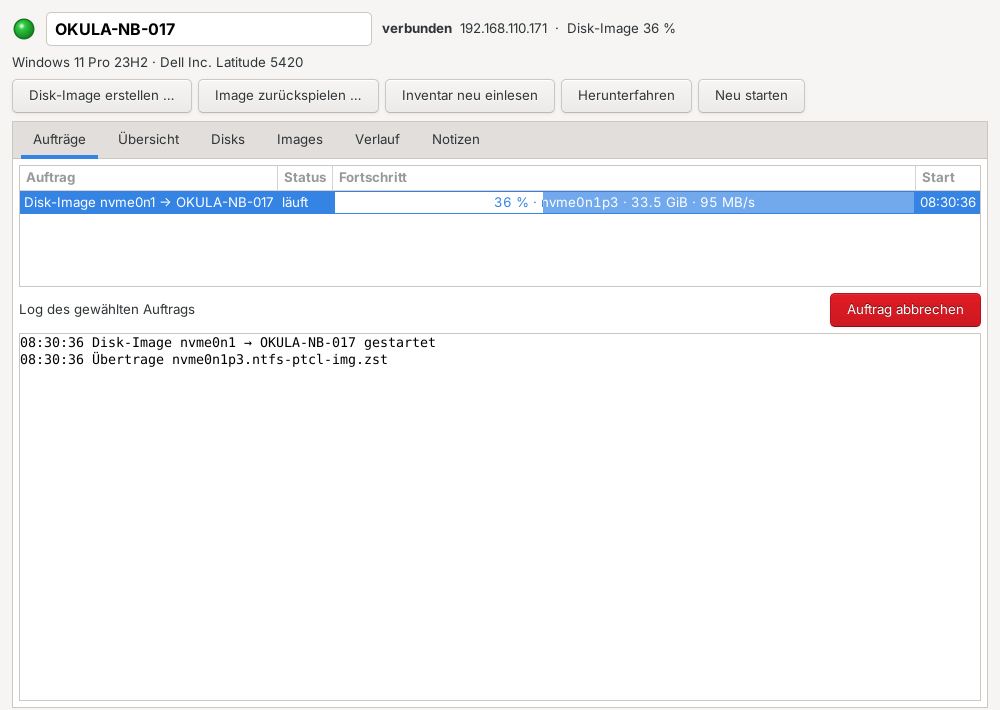
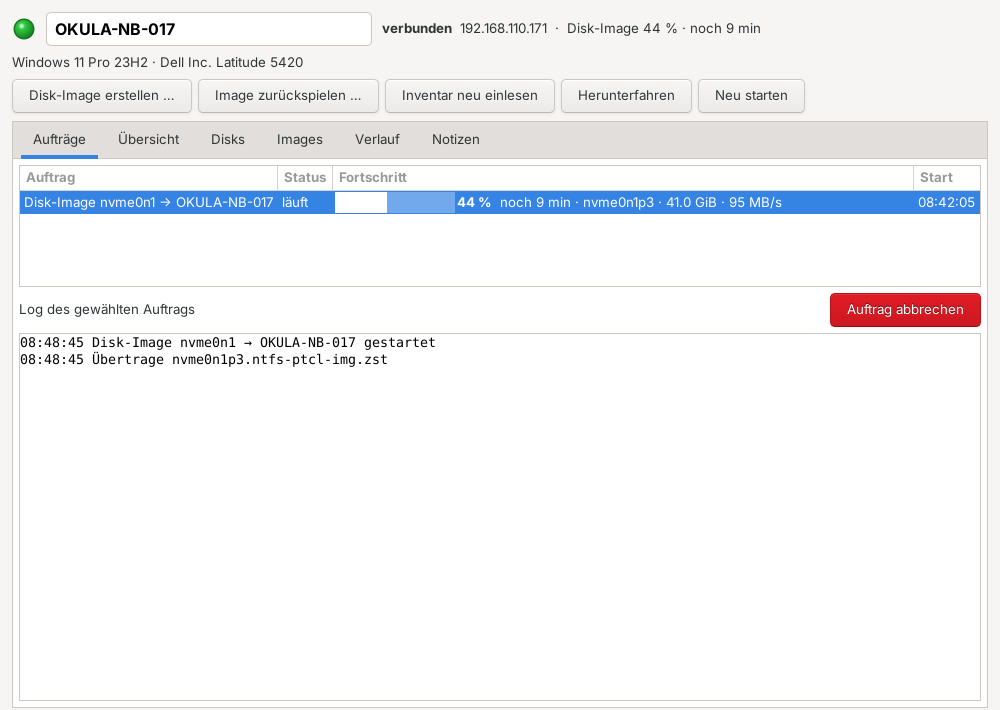
Geräteliste: Fortschrittsbalken mit Prozent und Restzeit
- Status-Spalte zeigt bei laufenden Aufträgen einen Balken, Prozent fett
  daneben, Auftrag (Disk-Image / Image prüfen / Zurückspielen) und Restzeit
- mehrere Aufträge: Mittelwert und längste Restzeit
- Gerätefenster: gleiche Darstellung in der Auftragsliste und im Kopf

Claude-Session: https://claude.ai/code/session_01GNW2pHw1GKubHQgAtEzXA5

Changed region(s): [[0.372, 0.2479, 0.992, 0.3099], [0.651, 0.031, 0.775, 0.062], [0.031, 0.4648, 0.093, 0.5268]]

diff --git a/okula_recovery/ui.py b/okula_recovery/ui.py
@@ -775,8 +775,9 @@ class MainWindow(Gtk.ApplicationWindow):
     # ---------- linke Seite: Geräte ----------
 
     # Spalten des Gerätebaums: LED bzw. Ordner-Icon, Name, Status, Betriebssystem, zuletzt verbunden, IP,
-    # Geräte-ID, Art (unsorted/folder/device), Ordner-rel
-    D_ICON, D_NAME, D_STATUS, D_OS, D_SEEN, D_IP, D_ID, D_KIND, D_REL = range(9)
+    # Geräte-ID, Art (unsorted/folder/device), Ordner-rel, Fortschritt 0–100, Balken-Text (leer), Balken zeigen
+    D_ICON, D_NAME, D_STATUS, D_OS, D_SEEN, D_IP, D_ID, D_KIND, D_REL, D_PROG, D_PCT, D_BAR = range(12)
+    NO_PROGRESS = [0, "", False]
     DEV_DND_TARGET = "okula/device-row"
 
     def _build_device_pane(self) -> Gtk.Widget:
@@ -800,7 +801,7 @@ class MainWindow(Gtk.ApplicationWindow):
             self.dev_buttons[key] = b
         box.pack_start(head, False, False, 0)
 
-        self.device_store = Gtk.TreeStore(str, str, str, str, str, str, str, str, str)
+        self.device_store = Gtk.TreeStore(str, str, str, str, str, str, str, str, str, int, str, bool)
         view = Gtk.TreeView(model=self.device_store)
         col = Gtk.TreeViewColumn("Gerät")
         icon = Gtk.CellRendererPixbuf()
@@ -813,7 +814,20 @@ class MainWindow(Gtk.ApplicationWindow):
         col.set_resizable(True)
         col.set_min_width(200)
         view.append_column(col)
-        for title, idx, chars in (("Status", self.D_STATUS, 16), ("Betriebssystem", self.D_OS, 18),
+        # Status: solange etwas läuft, Fortschrittsbalken mit Prozent, daneben Auftrag und Restzeit
+        col = Gtk.TreeViewColumn("Status")
+        bar = Gtk.CellRendererProgress()
+        bar.set_fixed_size(90, -1)
+        col.pack_start(bar, False)
+        for attr, idx in (("value", self.D_PROG), ("text", self.D_PCT), ("visible", self.D_BAR)):
+            col.add_attribute(bar, attr, idx)
+        text = Gtk.CellRendererText(ellipsize=Pango.EllipsizeMode.END)
+        col.pack_start(text, True)
+        col.add_attribute(text, "markup", self.D_STATUS)
+        col.set_min_width(340)
+        col.set_resizable(True)
+        view.append_column(col)
+        for title, idx, chars in (("Betriebssystem", self.D_OS, 18),
                                   ("Zuletzt verbunden", self.D_SEEN, 16), ("IP", self.D_IP, 14)):
             cell = Gtk.CellRendererText(ellipsize=Pango.EllipsizeMode.END, width_chars=chars)
             c = Gtk.TreeViewColumn(title, cell, text=idx)
@@ -871,24 +885,35 @@ class MainWindow(Gtk.ApplicationWindow):
         return self.agents.get(aid) if aid else None
 
     def device_status(self, dev: devices.Device) -> str:
-        """Was mit dem Gerät gerade passiert – Aufträge des Tools zuerst, dann die Meldung des Agents."""
-        summary = self.jobs.summary(dev.id)
-        agent = self.online_agent(dev)
-        if agent is None:
-            return summary or "nicht verbunden"
-        if summary:
-            return summary
-        if agent.agent_id in self.inv_pending:
-            return "Inventar wird gelesen …"
-        if not agent.control_port:
-            return "Agent-Stick veraltet"
-        return agent.status
+        what, fraction, eta = self.device_progress(dev)
+        pct = f" {fraction * 100:.0f} %" if fraction is not None else ""
+        return " · ".join(p for p in (what + pct, eta) if p)
 
-    def _device_values(self, dev: devices.Device) -> list[str]:
+    def device_progress(self, dev: devices.Device) -> tuple[str, float | None, str]:
+        """(was läuft, Fortschritt 0..1, Restzeit) – Aufträge des Tools zuerst, dann die Meldung des Agents."""
+        what, fraction, eta = self.jobs.parts(dev.id)
         agent = self.online_agent(dev)
-        return ["okula-led-on" if agent else "okula-led-off", dev.name, self.device_status(dev),
+        if what or agent is None:
+            return what or "nicht verbunden", fraction, eta
+        if agent.agent_id in self.inv_pending:
+            return "Inventar wird gelesen …", None, ""
+        if not agent.control_port:
+            return "Agent-Stick veraltet", None, ""
+        if agent.job:  # z. B. Image-Prüfung, die das Tool dem Agent meldet
+            return agent.job, agent.progress, ""
+        return agent.status, None, ""
+
+    def _device_values(self, dev: devices.Device) -> list:
+        agent = self.online_agent(dev)
+        what, fraction, eta = self.device_progress(dev)
+        bar = fraction is not None
+        status = GLib.markup_escape_text(" · ".join(p for p in (what, eta) if p))
+        if bar:
+            status = f"<b>{fraction * 100:.0f} %</b>  {status}"
+        return ["okula-led-on" if agent else "okula-led-off", dev.name, status,
                 dev.os_name or "–", "jetzt" if agent else devices.short_time(dev.last_seen) or "–",
-                agent.ip if agent else dev.last_ip, dev.id, "device", dev.folder]
+                agent.ip if agent else dev.last_ip, dev.id, "device", dev.folder,
+                int(fraction * 100) if bar else 0, "", bar]
 
     def refresh_devices(self) -> None:
         """Baum neu aufbauen (neue Geräte, Ordner, Umbenennen) – Auf- und Zuklappen bleibt erhalten."""
@@ -903,7 +928,7 @@ class MainWindow(Gtk.ApplicationWindow):
         store.clear()
         new = sorted(self.store.in_folder(""), key=lambda d: d.first_seen, reverse=True)  # neueste zuerst
         unsorted = store.append(None, ["folder-download-symbolic", f"Neu / nicht einsortiert ({len(new)})",
-                                       "", "", "", "", "", "unsorted", ""])
+                                       "", "", "", "", "", "unsorted", ""] + self.NO_PROGRESS)
         for dev in new:
             store.append(unsorted, self._device_values(dev))
 
@@ -912,7 +937,7 @@ class MainWindow(Gtk.ApplicationWindow):
 
         def add(parent, rel: str) -> None:
             it = store.append(parent, ["folder-symbolic", f"{rel.rsplit('/', 1)[-1]} ({count(rel)})", "", "", "",
-                                       "", "", "folder", rel])
+                                       "", "", "folder", rel] + self.NO_PROGRESS)
             for sub in self.store.folders:
                 if sub.rsplit("/", 1)[0] == rel and "/" in sub:
                     add(it, sub)

diff --git a/okula_recovery/jobs.py b/okula_recovery/jobs.py
@@ -38,6 +38,32 @@ class Job:
     def running(self) -> bool:
         return self.state == RUNNING
 
+    @property
+    def label(self) -> str:
+        if self.detail.startswith("Prüfe Image"):
+            return "Image prüfen"
+        return "Disk-Image" if self.kind == "image" else "Zurückspielen"
+
+    @property
+    def remaining(self) -> float | None:
+        """Geschätzte Restzeit in Sekunden (aus bisheriger Dauer und Fortschritt), None = noch unklar."""
+        if not self.running or self.fraction < 0.02:
+            return None
+        elapsed = time.time() - self.started
+        if elapsed < 10:
+            return None
+        return elapsed * (1 - self.fraction) / self.fraction
+
+
+def eta_text(seconds: float | None) -> str:
+    if seconds is None:
+        return ""
+    if seconds < 60:
+        return "noch < 1 min"
+    if seconds < 3600:
+        return f"noch {seconds / 60:.0f} min"
+    return f"noch {int(seconds // 3600)} h {int(seconds % 3600 // 60):02d} min"
+
 
 class JobManager:
     def __init__(self, on_change: Callable[[Job], None] = lambda job: None):
@@ -55,14 +81,24 @@ class JobManager:
             return [j for j in self.jobs if j.running]
 
     def summary(self, device_id: str) -> str:
-        """Kurzstatus für die Geräteliste, z. B. „Disk-Image 45 %“ oder „2 Aufträge“."""
+        """Kurzstatus für die Geräteliste, z. B. „Disk-Image 45 % · noch 6 min“."""
+        return self.status(device_id)[0]
+
+    def status(self, device_id: str) -> tuple[str, float | None]:
+        """(Text, Fortschritt 0..1) der laufenden Aufträge eines Geräts."""
+        what, fraction, eta = self.parts(device_id)
+        if fraction is None:
+            return "", None
+        return " · ".join(p for p in (f"{what} {fraction * 100:.0f} %", eta) if p), fraction
+
+    def parts(self, device_id: str) -> tuple[str, float | None, str]:
+        """(was läuft, Fortschritt, Restzeit); mehrere Aufträge: Mittelwert und längste Restzeit."""
         active = [j for j in self.running() if j.device_id == device_id]
         if not active:
-            return ""
-        if len(active) > 1:
-            return f"{len(active)} Aufträge"
-        j = active[0]
-        return f"{'Disk-Image' if j.kind == 'image' else 'Zurückspielen'} {j.fraction * 100:.0f} %"
+            return "", None, ""
+        rests = [j.remaining for j in active]
+        return (active[0].label if len(active) == 1 else f"{len(active)} Aufträge",
+                sum(j.fraction for j in active) / len(active), eta_text(None if None in rests else max(rests)))
 
     def start(self, device_id: str, kind: str, disk: str, title: str,
               work: Callable[["Job", "JobManager"], str]) -> Job:

diff --git a/okula_recovery/device_window.py b/okula_recovery/device_window.py
@@ -111,8 +111,15 @@ class DeviceWindow(Gtk.Window):
             col = Gtk.TreeViewColumn(title, Gtk.CellRendererText(), text=i)
             col.set_resizable(True)
             view.append_column(col)
-        prog = Gtk.CellRendererProgress()
-        col = Gtk.TreeViewColumn("Fortschritt", prog, value=3, text=4)
+        # Balken ohne Text (über der Farbgrenze schlecht lesbar), Prozent fett daneben
+        col = Gtk.TreeViewColumn("Fortschritt")
+        prog = Gtk.CellRendererProgress(text="")
+        prog.set_fixed_size(120, -1)
+        col.pack_start(prog, False)
+        col.add_attribute(prog, "value", 3)
+        info = Gtk.CellRendererText(ellipsize=Pango.EllipsizeMode.END)
+        col.pack_start(info, True)
+        col.add_attribute(info, "markup", 4)
         col.set_expand(True)
         view.append_column(col)
         view.append_column(Gtk.TreeViewColumn("Start", Gtk.CellRendererText(), text=5))
@@ -270,8 +277,9 @@ class DeviceWindow(Gtk.Window):
         all_jobs = self.main.jobs.for_device(self.dev.id)
         rows = {row[0]: row for row in self.job_store}
         for job in all_jobs:
-            pct = f"{job.fraction * 100:.0f} %"
-            values = [job.id, job.title, job.state, int(job.fraction * 100), f"{pct} · {job.detail}" if job.detail else pct,
+            rest = GLib.markup_escape_text(" · ".join(p for p in (jobs.eta_text(job.remaining), job.detail) if p))
+            text = f"<b>{job.fraction * 100:.0f} %</b>  {rest}"
+            values = [job.id, job.title, job.state, int(job.fraction * 100), text,
                       datetime.fromtimestamp(job.started).strftime("%H:%M:%S")]
             if job.id in rows:
                 for i, v in enumerate(values):

diff --git a/tests/test_jobs.py b/tests/test_jobs.py
@@ -80,7 +80,9 @@ class ParallelJobsTest(unittest.TestCase):
             start(self.disks[0])  # gleiche Disk: abgelehnt
         time.sleep(0.5)
         self.assertEqual(len(jm.running()), 2, "beide Aufträge sollten gleichzeitig laufen")
-        self.assertEqual(jm.summary("dev1"), "2 Aufträge")
+        text, fraction = jm.status("dev1")
+        self.assertRegex(text, r"^2 Aufträge \d+ %")
+        self.assertIsNotNone(fraction)
         deadline = time.time() + 30
         while jm.running() and time.time() < deadline:
             time.sleep(0.1)
@@ -132,3 +134,17 @@ class ParallelJobsTest(unittest.TestCase):
 
 if __name__ == "__main__":
     unittest.main()
+
+
+class EtaTest(unittest.TestCase):
+    def test_remaining_and_text(self):
+        job = jobs.Job(1, "dev", "image", "/dev/sda", "Disk-Image sda", started=time.time() - 600, fraction=0.25)
+        self.assertAlmostEqual(job.remaining, 1800, delta=5)
+        self.assertEqual(jobs.eta_text(job.remaining), "noch 30 min")
+        self.assertEqual(jobs.eta_text(4000), "noch 1 h 06 min")
+        self.assertIsNone(jobs.Job(2, "dev", "image", "/dev/sdb", "x", fraction=0.5).remaining)  # zu früh
+        jm = jobs.JobManager()
+        jm.jobs.append(job)
+        self.assertEqual(jm.status("dev"), ("Disk-Image 25 % · noch 30 min", 0.25))
+        job.detail = "Prüfe Image 40 %"
+        self.assertTrue(jm.summary("dev").startswith("Image prüfen 25 %"))

diff --git a/README.md b/README.md
@@ -106,7 +106,7 @@ Bootet ein Gerät vom Agent-Stick, sammelt der Agent einmal das **Inventar** und
 - **Aufträge:** alle Aufträge dieser Sitzung mit Fortschrittsbalken, Log des gewählten Auftrags und *Auftrag abbrechen*
 - **Übersicht**, **Disks** (inkl. SMART), **Images** (Images dieses Geräts auf dem NAS; Doppelklick = zurückspielen), **Verlauf** (erfasst, verbunden/getrennt, Images, Restores, Herunterfahren – mit Ergebnis) und **Notizen**
 
-**Mehrere Aufträge parallel:** Aufträge laufen im Hintergrund, auch auf mehreren Geräten gleichzeitig und auf verschiedenen Disks desselben Geräts. Pro Disk ist nur ein Auftrag möglich. Die Geräteliste zeigt den Fortschritt („Disk-Image 45 %“, „2 Aufträge“). Beim Beenden warnt das Tool, solange Aufträge laufen.
+**Mehrere Aufträge parallel:** Aufträge laufen im Hintergrund, auch auf mehreren Geräten gleichzeitig und auf verschiedenen Disks desselben Geräts. Pro Disk ist nur ein Auftrag möglich. Die Geräteliste zeigt pro Gerät einen Fortschrittsbalken mit Prozent, Auftrag und geschätzter Restzeit (z. B. „▬▬▭ **48 %** Disk-Image · noch 7 min“; bei mehreren Aufträgen „2 Aufträge“ mit Mittelwert und längster Restzeit). Die Restzeit erscheint nach etwa 10 s Laufzeit. Beim Beenden warnt das Tool, solange Aufträge laufen.
 
 > Nach dem Update den **Agent-Stick neu erstellen** – ältere Sticks liefern kein Inventar und können nur einen Auftrag gleichzeitig.
 
